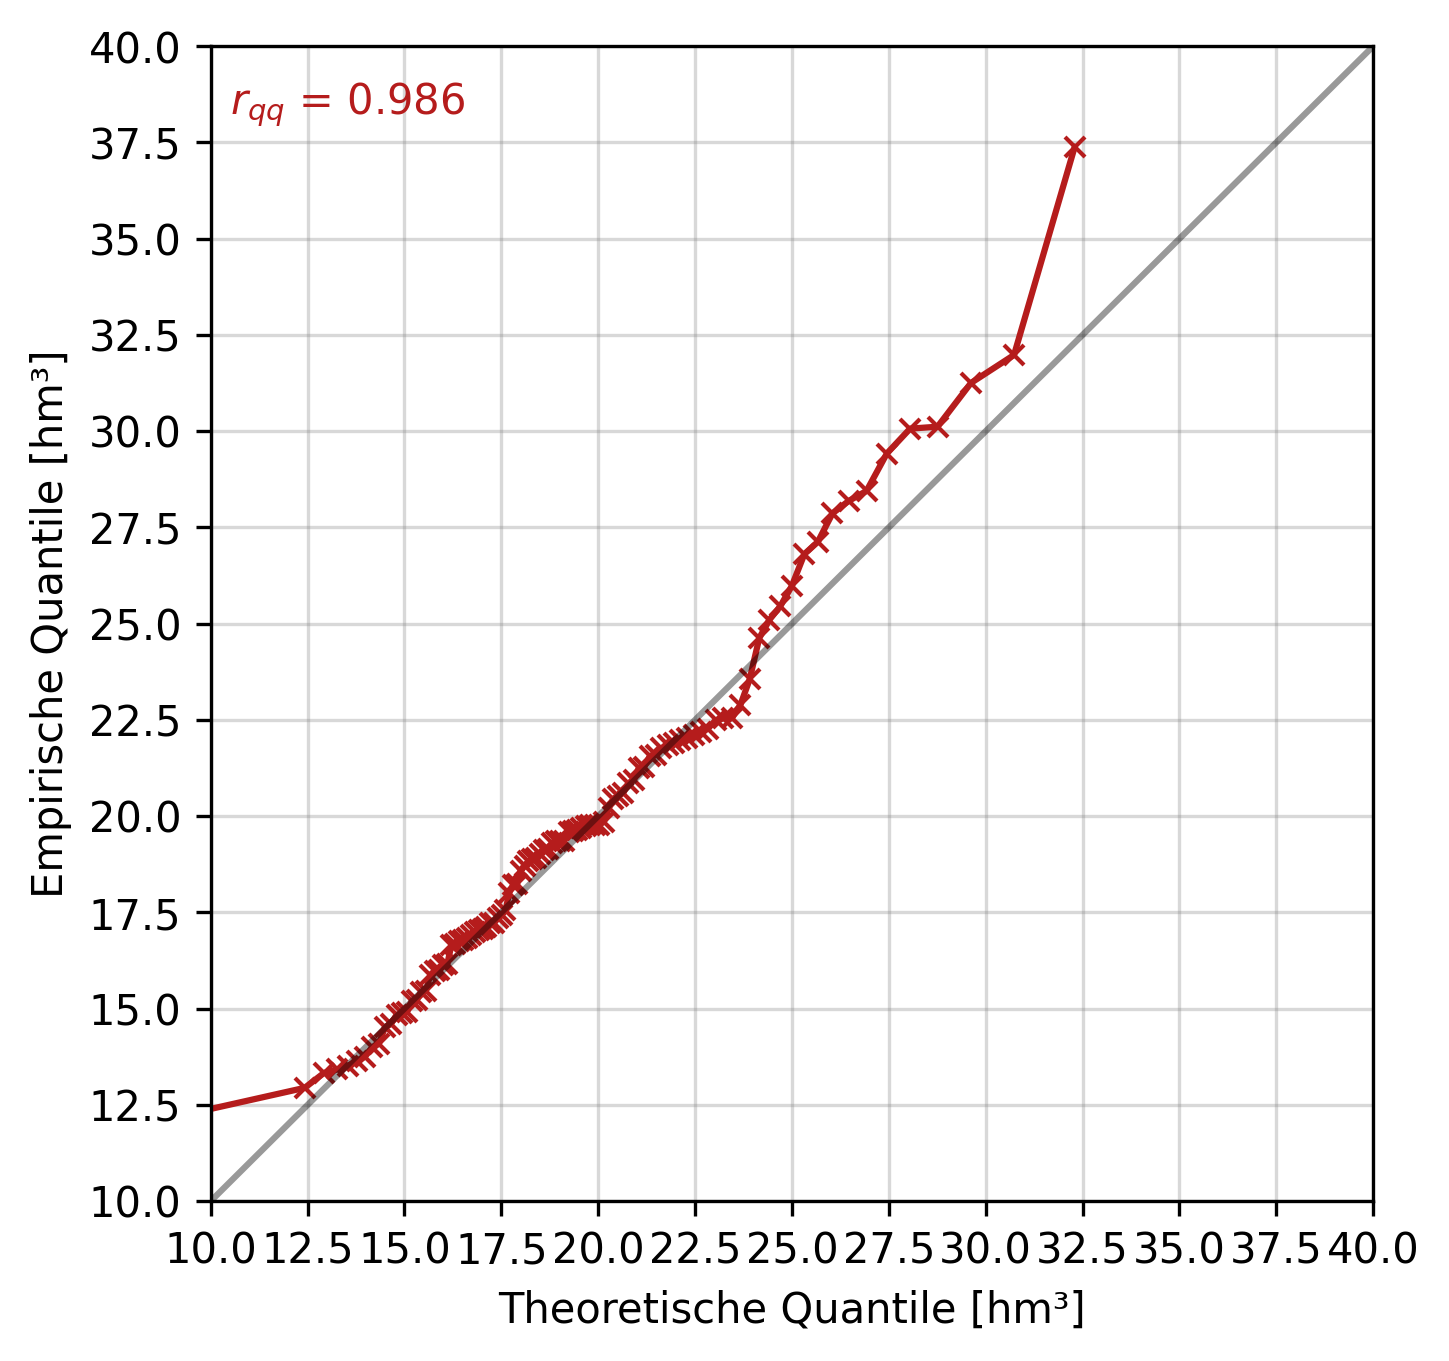
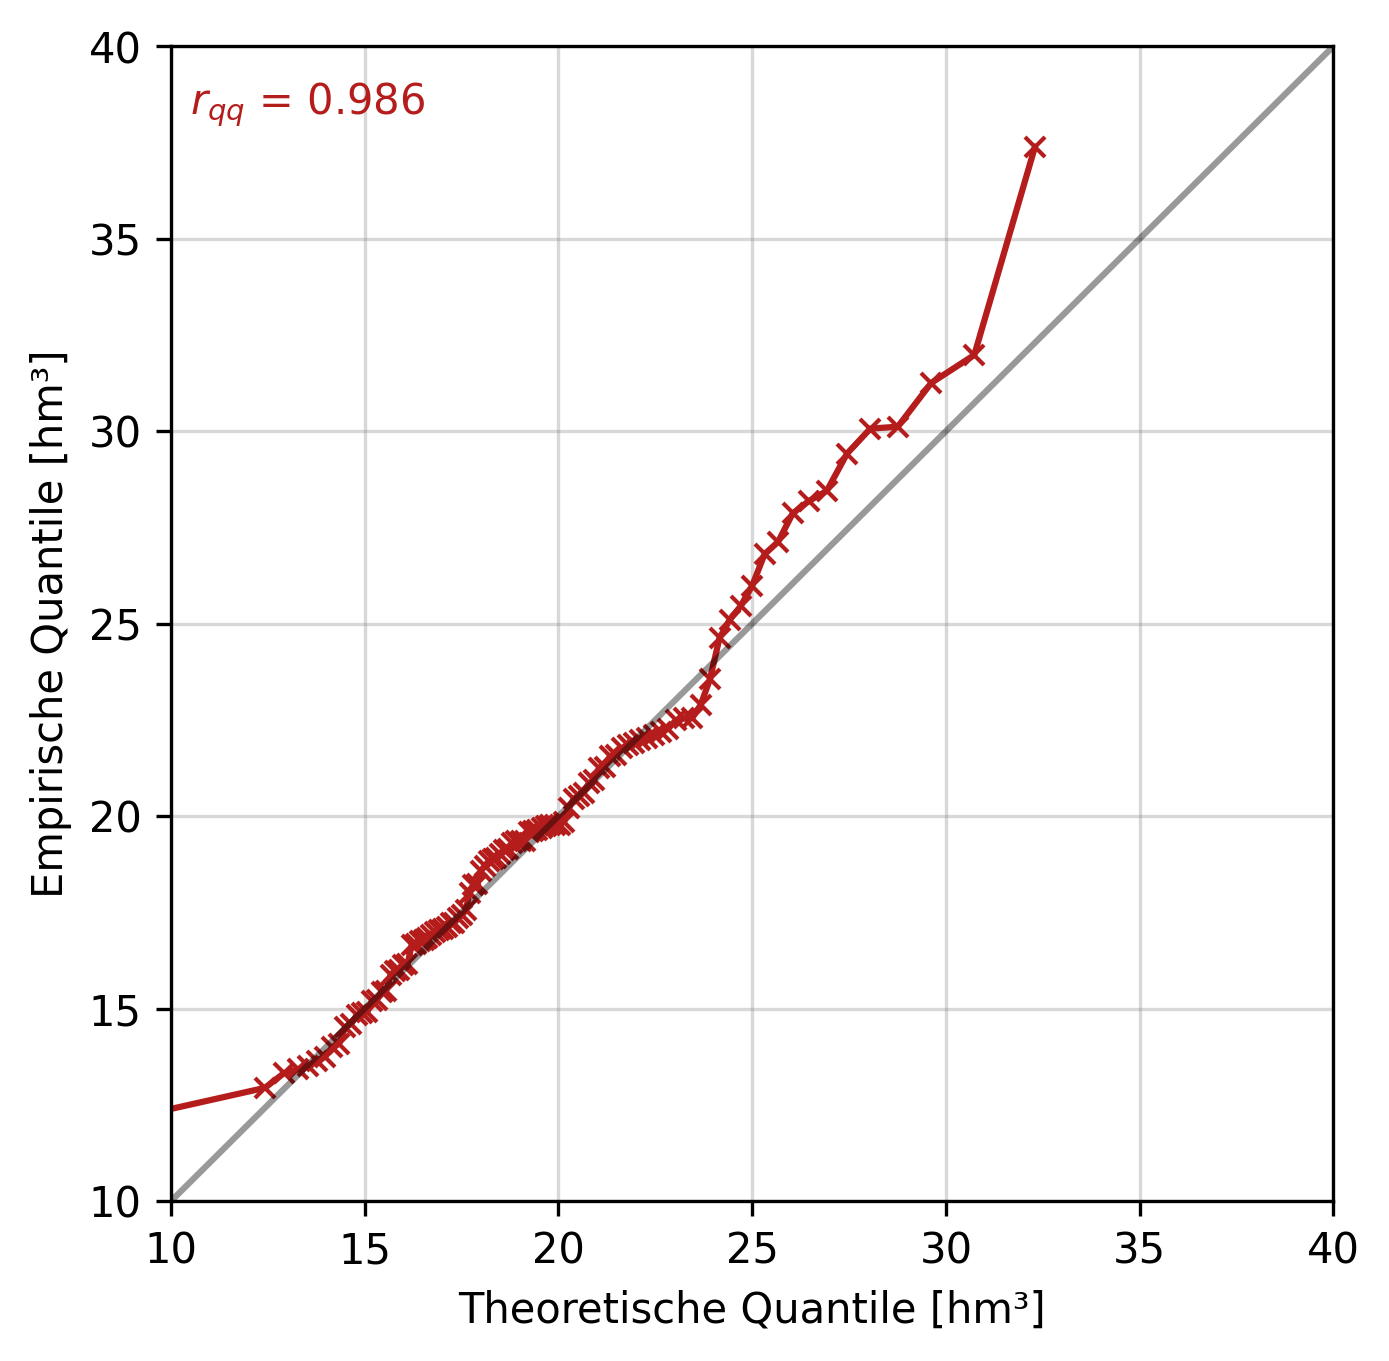
📈 Update ticks

diff --git a/code/utils/plotting.py b/code/utils/plotting.py
@@ -634,8 +634,8 @@ def qq_plot(emp: list[float], theo: list[float]):
              va="center", fontsize=10, color=tu_red)
     plt.xlabel("Theoretische Quantile [hm³]")
     plt.ylabel("Empirische Quantile [hm³]")
-    plt.xticks(np.arange(0,40.5,2.5))
-    plt.yticks(np.arange(0,40.5,2.5))
+    plt.xticks(np.arange(0,45,5))
+    plt.yticks(np.arange(0,45,5))
     plt.xlim([10, 40])
     plt.ylim([10, 40])
     plt.grid(color="grey", alpha=0.3)
